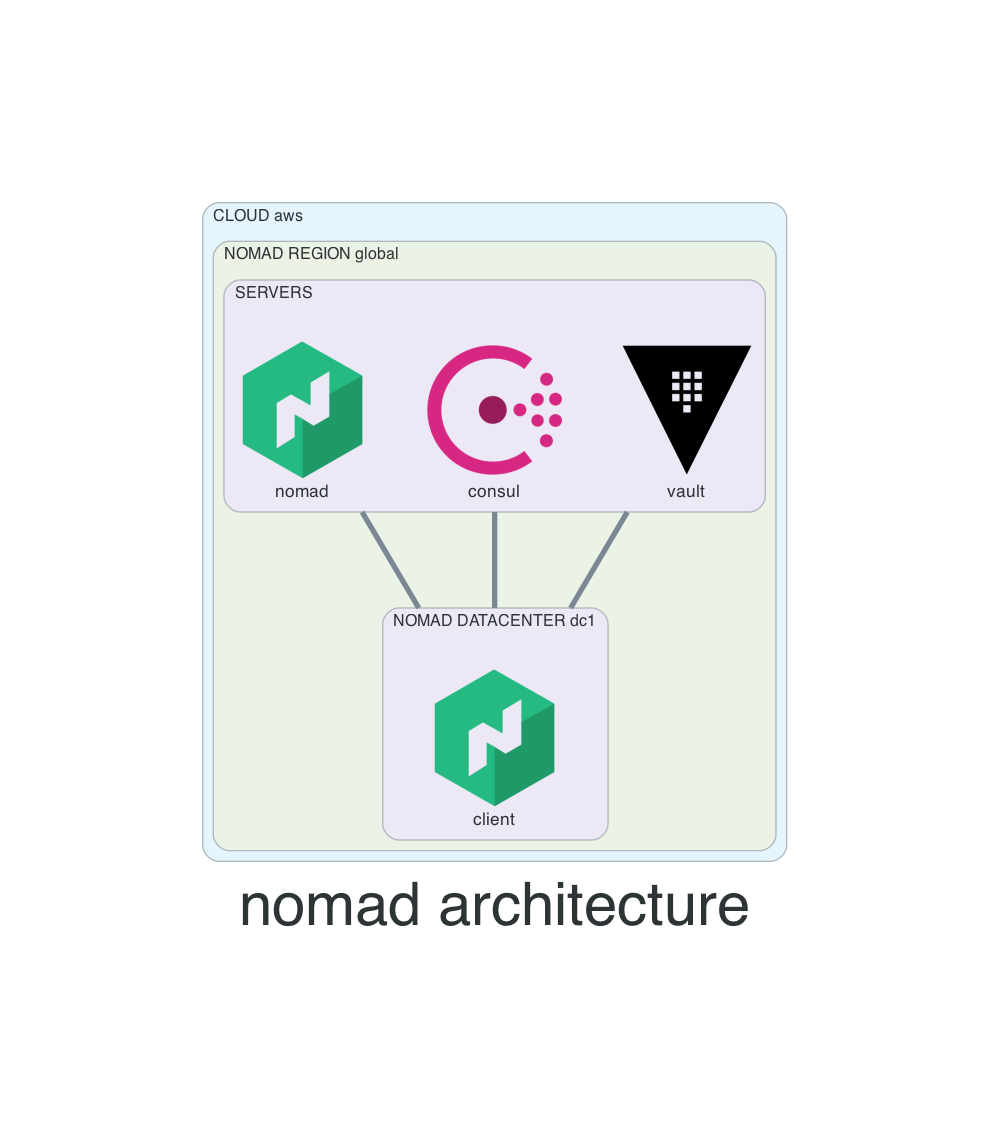
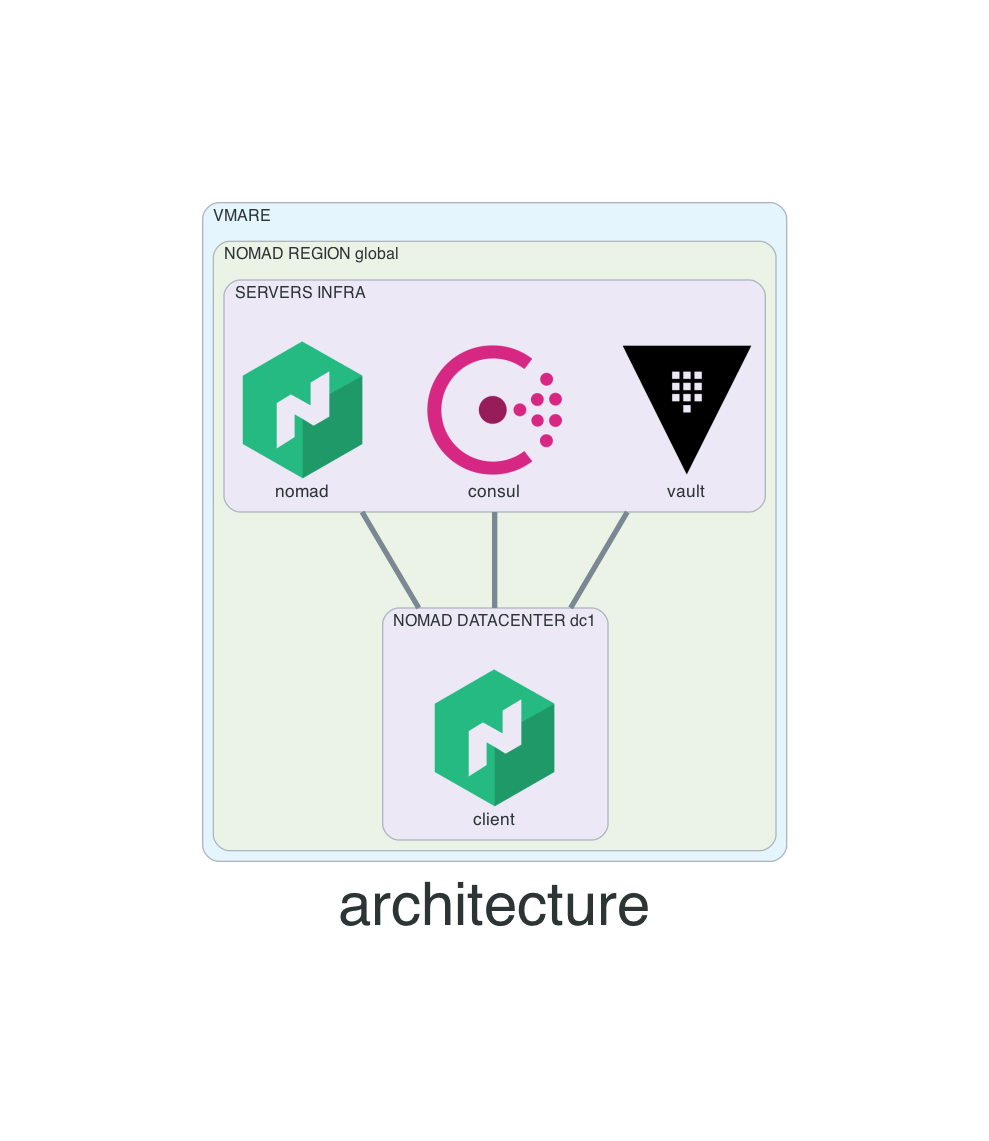
readme+diagram

Changed region(s): [[0.2427, 0.7669, 0.7583, 0.8282], [0.2123, 0.184, 0.3033, 0.2147], [0.3337, 0.2454, 0.364, 0.2761]]

diff --git a/diagram/diagram.py b/diagram/diagram.py
@@ -17,14 +17,14 @@ graph_attr = {
     }
 
 with Diagram("architecture", filename="diagram", direction="TB",outformat=outformat, graph_attr=graph_attr):
-    with Cluster("vmware"):
+    with Cluster("VMARE"):
         with Cluster("NOMAD REGION global"):
-            with Cluster("SERVERS"):
+            with Cluster("SERVERS INFRA"):
                 consul1_global = Consul("consul")
                 nomad1_global = Nomad("nomad")
                 vault1_global = Vault("vault")
             with Cluster("NOMAD DATACENTER dc1"):
                 client1 = Nomad("client")
-                nomad1_global - Edge(penwidth = "4", lhead = "cluster_NOMAD DATACENTER dc1", ltail="cluster_SERVERS", minlen="2") - client1
-                consul1_global - Edge(penwidth = "4", lhead = "cluster_NOMAD DATACENTER dc1", ltail="cluster_SERVERS", minlen="2") - client1
-                vault1_global - Edge(penwidth = "4", lhead = "cluster_NOMAD DATACENTER dc1", ltail="cluster_SERVERS", minlen="2") - client1
+                nomad1_global - Edge(penwidth = "4", lhead = "cluster_NOMAD DATACENTER dc1", ltail="cluster_SERVERS INFRA", minlen="2") - client1
+                consul1_global - Edge(penwidth = "4", lhead = "cluster_NOMAD DATACENTER dc1", ltail="cluster_SERVERS INFRA", minlen="2") - client1
+                vault1_global - Edge(penwidth = "4", lhead = "cluster_NOMAD DATACENTER dc1", ltail="cluster_SERVERS INFRA", minlen="2") - client1
